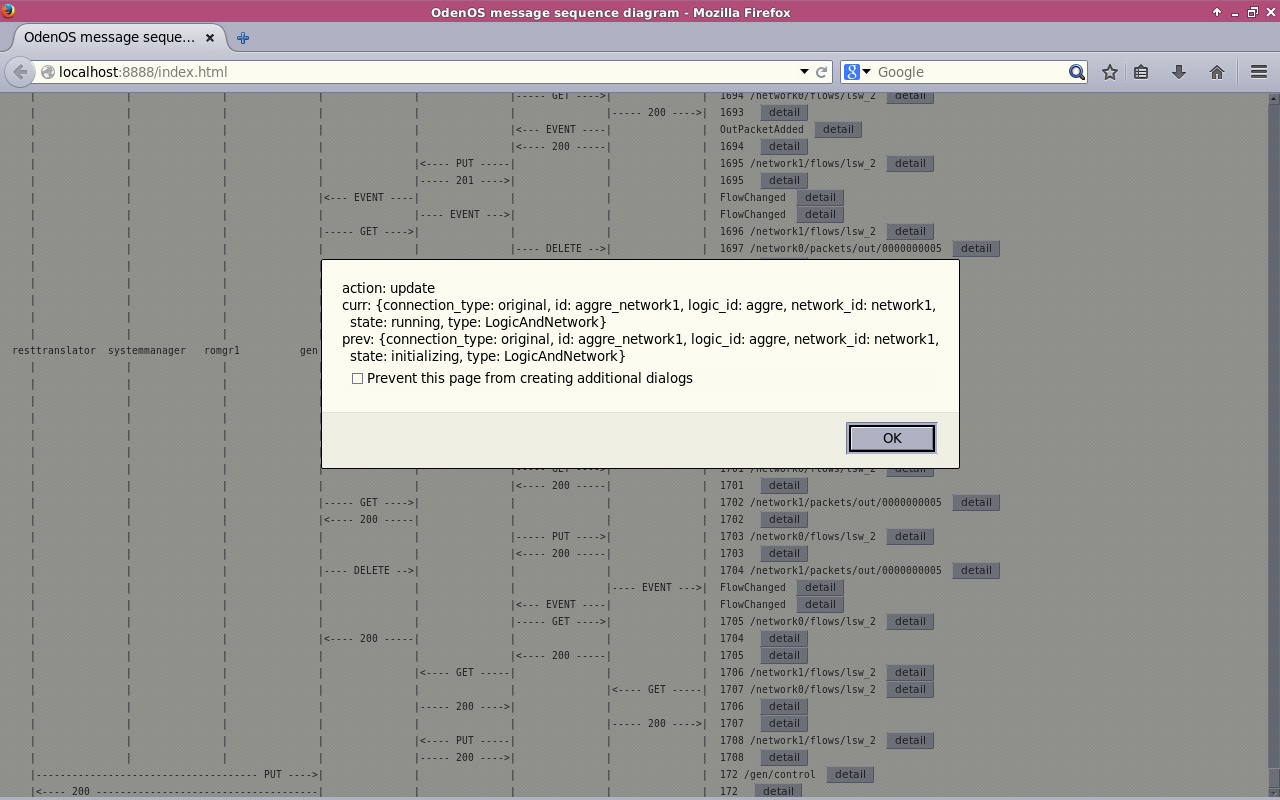
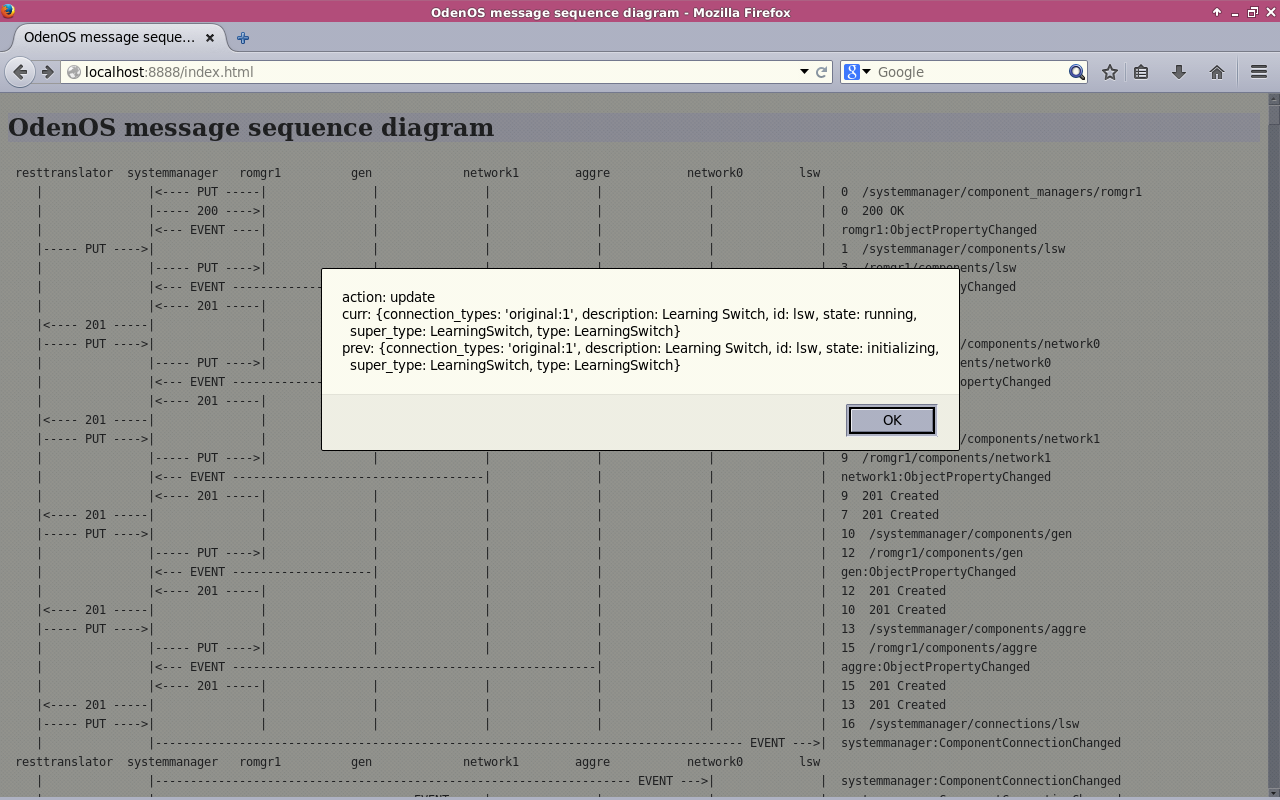
Monitor updated.

diff --git a/apps/monitor/web/index.html b/apps/monitor/web/index.html
@@ -6,10 +6,10 @@
 <meta charset="UTF-8">
 <title>OdenOS message sequence diagram</title>
 <script type="text/javascript">
-    var detail_url = "http://localhost:{{ port }}/detail";
+    var detail_url = "http://{{ host }}:{{ port }}/detail";
     function init() {
         var diagram = document.getElementById('diagram');
-        var socket = new WebSocket("ws://localhost:{{ port }}/message",["protocolOne", "protocolTwo"]); 
+        var socket = new WebSocket("ws://{{ host }}:{{ port }}/message",["protocolOne", "protocolTwo"]); 
         socket.onmessage = function(event) {
             var newElement = document.createElement('div');
             var message = event.data.split(",");
@@ -18,7 +18,10 @@
             } else {
                 var serial = message[1];
                 newElement.id = serial;
-                newElement.innerHTML = "<pre>" + message[0] + '</pre> <button onclick="detail(' + serial + ')">detail</button>';
+                newElement.setAttribute("class", "sequence");
+                var detail_script = "detail(" + serial + ")";
+                newElement.setAttribute("onmousedown", detail_script); 
+                newElement.innerHTML = "<pre>" + message[0] + "</pre>";
             }
             diagram.appendChild(newElement);
             diagram.scrollIntoView(false);
@@ -54,6 +57,12 @@
 }
 pre {
     display: inline;
+}
+div.sequence:hover {
+    background-color: LightGreen;
+}
+div.sequence:acrive {
+    background-color: Coral;
 }
 </style>
 

diff --git a/src/main/java/org/o3project/odenos/remoteobject/messagingclient/MessageDispatcher.java b/src/main/java/org/o3project/odenos/remoteobject/messagingclient/MessageDispatcher.java
@@ -28,6 +28,7 @@ import org.o3project.odenos.remoteobject.message.MessageBodyUnpacker;
 import org.o3project.odenos.remoteobject.message.Request;
 import org.o3project.odenos.remoteobject.message.Response;
 import org.o3project.odenos.remoteobject.messagingclient.Config.MODE;
+import org.o3project.odenos.remoteobject.messagingclient.redis.MonitorClient;
 import org.slf4j.Logger;
 import org.slf4j.LoggerFactory;
 
@@ -93,7 +94,11 @@ public class MessageDispatcher implements Closeable, IMessageListener {
   protected static final byte TYPE_REQUEST = 0;
   protected static final byte TYPE_RESPONSE = 1;
   protected static final byte TYPE_EVENT = 2;
-  protected static final byte TYPE_REFLECTED_EVENT = 99;
+
+  protected static final byte[] MONITOR_CHANNEL = "_monitor".getBytes();
+  protected static final String REQUEST = "REQUEST";
+  protected static final String RESPONSE = "RESPONSE";
+  protected static final String EVENT = "EVENT";
 
   protected BlockingQueue<Runnable> subscriberQueue;
 
@@ -129,7 +134,10 @@ public class MessageDispatcher implements Closeable, IMessageListener {
 
   protected boolean localRequestsToPubSubServer = false;
   protected boolean includeSourceObjectId = false;
-  protected boolean reflectEventToMonitor = false;
+  protected boolean reflectMessageToMonitor = false;
+  
+  // For message monitoring
+  protected MonitorClient monitor = null;
 
   protected static final String channelString(final String publisherId, final String eventId) {
     return publisherId + ":" + eventId;
@@ -184,7 +192,7 @@ public class MessageDispatcher implements Closeable, IMessageListener {
 
     localRequestsToPubSubServer = mode.contains(MODE.LOCAL_REQUEST_TO_PUBSUB);
     includeSourceObjectId = mode.contains(MODE.INCLUDE_SOURCE_OBJECT_ID);
-    reflectEventToMonitor = mode.contains(MODE.REFLECT_EVENT_TO_MONITOR);
+    reflectMessageToMonitor = mode.contains(MODE.REFLECT_MESSAGE_TO_MONITOR);
 
     // Actor system instantiation. 
     // The number of woker threads: the max number of remote transactions.
@@ -203,6 +211,13 @@ public class MessageDispatcher implements Closeable, IMessageListener {
 
     // Remote Transactions pool
     remoteTransactions = new RemoteTransactions(this, config);
+
+    // Monitoring
+    if (reflectMessageToMonitor) {
+      String monitorName = "monitor@" + sourceDispatcherId; 
+      monitor = new MonitorClient(config.getHost(), config.getPort());  // Keep-alive
+      monitor.setClientName(monitorName.getBytes());
+    }
   }
 
   /**
@@ -241,20 +256,33 @@ public class MessageDispatcher implements Closeable, IMessageListener {
            *  <-- response --- publishResponseAsync() <-------+
            */
           final Request request = upk.read(Request.class);
-          if (log.isDebugEnabled()) {
-            log.debug("Request received:\n"
-                + "  MessageDispatcher: {}\n"
-                + "  sno: {}\n"
-                + "  channel: {}\n"
-                + "  method: {}\n"
-                + "  objectId: {}\n"
-                + "  sourceObjectId: {}\n"
-                + "  path: /{}/\n"
-                + "  body: {}",
-                sourceDispatcherId, sno, channel,
-                request.method, request.objectId, sourceObjectId, request.path,
-                request.getBodyValue());
+          // Monitoring
+          if (reflectMessageToMonitor) {
+            BufferPacker pk = msgpack.createBufferPacker();
+            pk.write(REQUEST);
+            pk.write(channel);
+            pk.write(sourceObjectId);
+            pk.write(sno);
+            pk.write(request.method.name());
+            pk.write("/" + channel + "/" + request.path);
+            pk.write(request.getBodyValue());
+            byte[] data = pk.toByteArray();
+            monitor.publish(MONITOR_CHANNEL, data);
           }
+          //if (log.isDebugEnabled()) {
+          //  log.debug("Request received:\n"
+          //      + "  MessageDispatcher: {}\n"
+          //      + "  sno: {}\n"
+          //      + "  channel: {}\n"
+          //      + "  method: {}\n"
+          //      + "  objectId: {}\n"
+          //      + "  sourceObjectId: {}\n"
+          //      + "  path: /{}/\n"
+          //      + "  body: {}",
+          //      sourceDispatcherId, sno, channel,
+          //      request.method, request.objectId, sourceObjectId, request.path,
+          //      request.getBodyValue());
+          //}
 
           // Wraps the request with Mail and deliver it to a mailbox.
           String to = request.objectId;
@@ -283,15 +311,27 @@ public class MessageDispatcher implements Closeable, IMessageListener {
            *                             +- signalResponse() <-- response --+
            */
           Response response = upk.read(Response.class);
-          if (log.isDebugEnabled()) {
-            log.debug("Response received:\n"
-                + "  MessageDispatcher: {}\n"
-                + "  channel: {}\n"
-                + "  statusCode: {}\n"
-                + "  body: {}",
-                sourceDispatcherId, channel,
-                response.statusCode, response.getBodyValue());
+          // Monitoring
+          if (reflectMessageToMonitor) {
+            BufferPacker pk = msgpack.createBufferPacker();
+            pk.write(RESPONSE);
+            pk.write(channel);
+            pk.write(sourceObjectId);
+            pk.write(sno);
+            pk.write(response.statusCode);
+            pk.write(response.getBodyValue());
+            byte[] data = pk.toByteArray();
+            monitor.publish(MONITOR_CHANNEL, data);
           }
+          //if (log.isDebugEnabled()) {
+          //  log.debug("Response received:\n"
+          //      + "  MessageDispatcher: {}\n"
+          //      + "  channel: {}\n"
+          //      + "  statusCode: {}\n"
+          //      + "  body: {}",
+          //      sourceDispatcherId, channel,
+          //      response.statusCode, response.getBodyValue());
+          //}
           remoteTransactions.signalResponse(sno, response);
           break;
 
@@ -302,14 +342,14 @@ public class MessageDispatcher implements Closeable, IMessageListener {
            *                              [EventSubscriptionMap]
            */
           final Event event = upk.read(Event.class);
-          if (log.isDebugEnabled()) {
-            log.debug("Event received:\n"
-                + "  MessageDispatcher: {}\n"
-                + "  channel: {}\n"
-                + "  body: {}",
-                sourceDispatcherId, channel,
-                event.getBodyValue());
-          }
+          //if (log.isDebugEnabled()) {
+          //  log.debug("Event received:\n"
+          //      + "  MessageDispatcher: {}\n"
+          //      + "  channel: {}\n"
+          //      + "  body: {}",
+          //      sourceDispatcherId, channel,
+          //      event.getBodyValue());
+          //}
 
           // All the subscribers of the channel
           final Collection<String> subscribers =
@@ -325,8 +365,16 @@ public class MessageDispatcher implements Closeable, IMessageListener {
           for (String subscriber : subscribers) {
             localObject = localObjectsMap.get(subscriber);
             if (localObject != null) {
-              if (reflectEventToMonitor) {
-                publishEventAsync("reflected_event", event, subscriber);
+              // Monitoring
+              if (reflectMessageToMonitor) {
+                BufferPacker pk = msgpack.createBufferPacker();
+                pk.write(EVENT);
+                pk.write(subscriber);
+                pk.write(event.publisherId);
+                pk.write(event.publisherId + ":" + event.getEventType());
+                pk.write(event.getBodyValue());
+                byte[] data = pk.toByteArray();
+                monitor.publish(MONITOR_CHANNEL, data);
               }
               mail = new Mail(serial, sno, subscriber, channel, this, null, event);
               mailbox = localObject.getMailbox();
@@ -667,27 +715,16 @@ public class MessageDispatcher implements Closeable, IMessageListener {
     final String channel = channelString(event.publisherId, event.eventType);
     publishEventAsync(channel, event, null);
   }
-  
-  private void publishEventAsync(final String channel, final Event event, final String subscriberId) 
-      throws IOException {
+
+  private void
+      publishEventAsync(final String channel, final Event event, final String subscriberId)
+          throws IOException {
     BufferPacker pk = msgpack.createBufferPacker();
     // write delivery header.
     byte[] message = null;
-    if (reflectEventToMonitor) {
-      if (subscriberId == null) {
-        pk.write(TYPE_EVENT);
-        pk.write(0);
-        pk.write(event.publisherId);
-      } else {
-        pk.write(TYPE_REFLECTED_EVENT);
-        pk.write(0);
-        pk.write(subscriberId);
-      }
-    } else {
-      pk.write(TYPE_EVENT);
-      pk.write(0);
-      pk.write("event");
-    }
+    pk.write(TYPE_EVENT);
+    pk.write(0);
+    pk.write("event");
     // write delivery body.
     pk.write(event);
     message = pk.toByteArray();
@@ -948,4 +985,6 @@ public class MessageDispatcher implements Closeable, IMessageListener {
       // has become unavailable.
     }
   }
+
+  
 }

diff --git a/src/main/java/org/o3project/odenos/remoteobject/messagingclient/redis/MonitorClient.java b/src/main/java/org/o3project/odenos/remoteobject/messagingclient/redis/MonitorClient.java
@@ -1,0 +1,62 @@
+/*
+ * Copyright 2015 NEC Corporation.
+ *
+ * Licensed under the Apache License, Version 2.0 (the "License");
+ * you may not use this file except in compliance with the License.
+ * You may obtain a copy of the License at
+ *
+ *   http://www.apache.org/licenses/LICENSE-2.0
+ *
+ * Unless required by applicable law or agreed to in writing, software
+ * distributed under the License is distributed on an "AS IS" BASIS,
+ * WITHOUT WARRANTIES OR CONDITIONS OF ANY KIND, either express or implied.
+ * See the License for the specific language governing permissions and
+ * limitations under the License.
+ */
+
+package org.o3project.odenos.remoteobject.messagingclient.redis;
+
+import org.slf4j.Logger;
+import org.slf4j.LoggerFactory;
+
+import redis.clients.jedis.exceptions.JedisConnectionException;
+
+public class MonitorClient extends RedisClient {
+
+  private static final Logger log = LoggerFactory.getLogger(MonitorClient.class);
+
+  private Thread receiveThread = null;
+
+  public MonitorClient(final String host, final int port) {
+    super(true); // TCP keep-alive is set.
+    connect(host, port);
+  }
+
+  protected synchronized void setClientName(String name) {
+    setClientName(name.getBytes());
+  }
+
+  protected void receive() {
+    receiveThread = new Thread(new ReceiveThread(), "MonitorClient-receive");
+    receiveThread.start();
+  }
+
+  private class ReceiveThread implements Runnable {
+    @Override
+    public void run() {
+      Object object;
+      while (true) {
+        try {
+          object = read();
+          if (log.isDebugEnabled()) {
+            log.debug("reply from Redis server: {}", object.toString());
+          }
+        } catch (JedisConnectionException e) {
+          log.error("connection error", e);
+          break;
+        }
+      }
+    }
+  }
+
+}

diff --git a/src/main/java/org/o3project/odenos/remoteobject/messagingclient/Config.java b/src/main/java/org/o3project/odenos/remoteobject/messagingclient/Config.java
@@ -35,9 +35,9 @@ public interface Config {
     // This is mainly for a debugging purpose to include
     // source ObjectId for Request/Response and Event
     INCLUDE_SOURCE_OBJECT_ID,
-    // Reflects a received event to the channel "event_monitor"
-    // that an event monitor subscribes with
-    REFLECT_EVENT_TO_MONITOR,
+    // Reflects a received request, response or event to Redis server
+    // for a message monitoring purpose.
+    REFLECT_MESSAGE_TO_MONITOR,
     // Re-SUBSCRIBEs onReconnected()
     RESEND_SUBSCRIBE_ON_RECONNECTED,
     // Bridged pubsub client 

diff --git a/src/main/java/org/o3project/odenos/core/Odenos.java b/src/main/java/org/o3project/odenos/core/Odenos.java
@@ -201,7 +201,7 @@ public final class Odenos {
         mode = EnumSet.of(MODE.RESEND_SUBSCRIBE_ON_RECONNECTED,
                           MODE.INCLUDE_SOURCE_OBJECT_ID,
                           MODE.LOCAL_REQUEST_TO_PUBSUB,
-                          MODE.REFLECT_EVENT_TO_MONITOR);
+                          MODE.REFLECT_MESSAGE_TO_MONITOR);
       } else {
         mode = EnumSet.of(MODE.RESEND_SUBSCRIBE_ON_RECONNECTED);
       }

diff --git a/apps/monitor/README.md b/apps/monitor/README.md
@@ -16,7 +16,6 @@ Dependencies
 
 This program requires Python 3.4 or higher and the following python packages:
 ```
-$ sudo pip3 install redis
 $ sudo pip3 install msgpack-python
 $ sudo pip3 install pyyaml
 $ sudo pip3 install tornado
